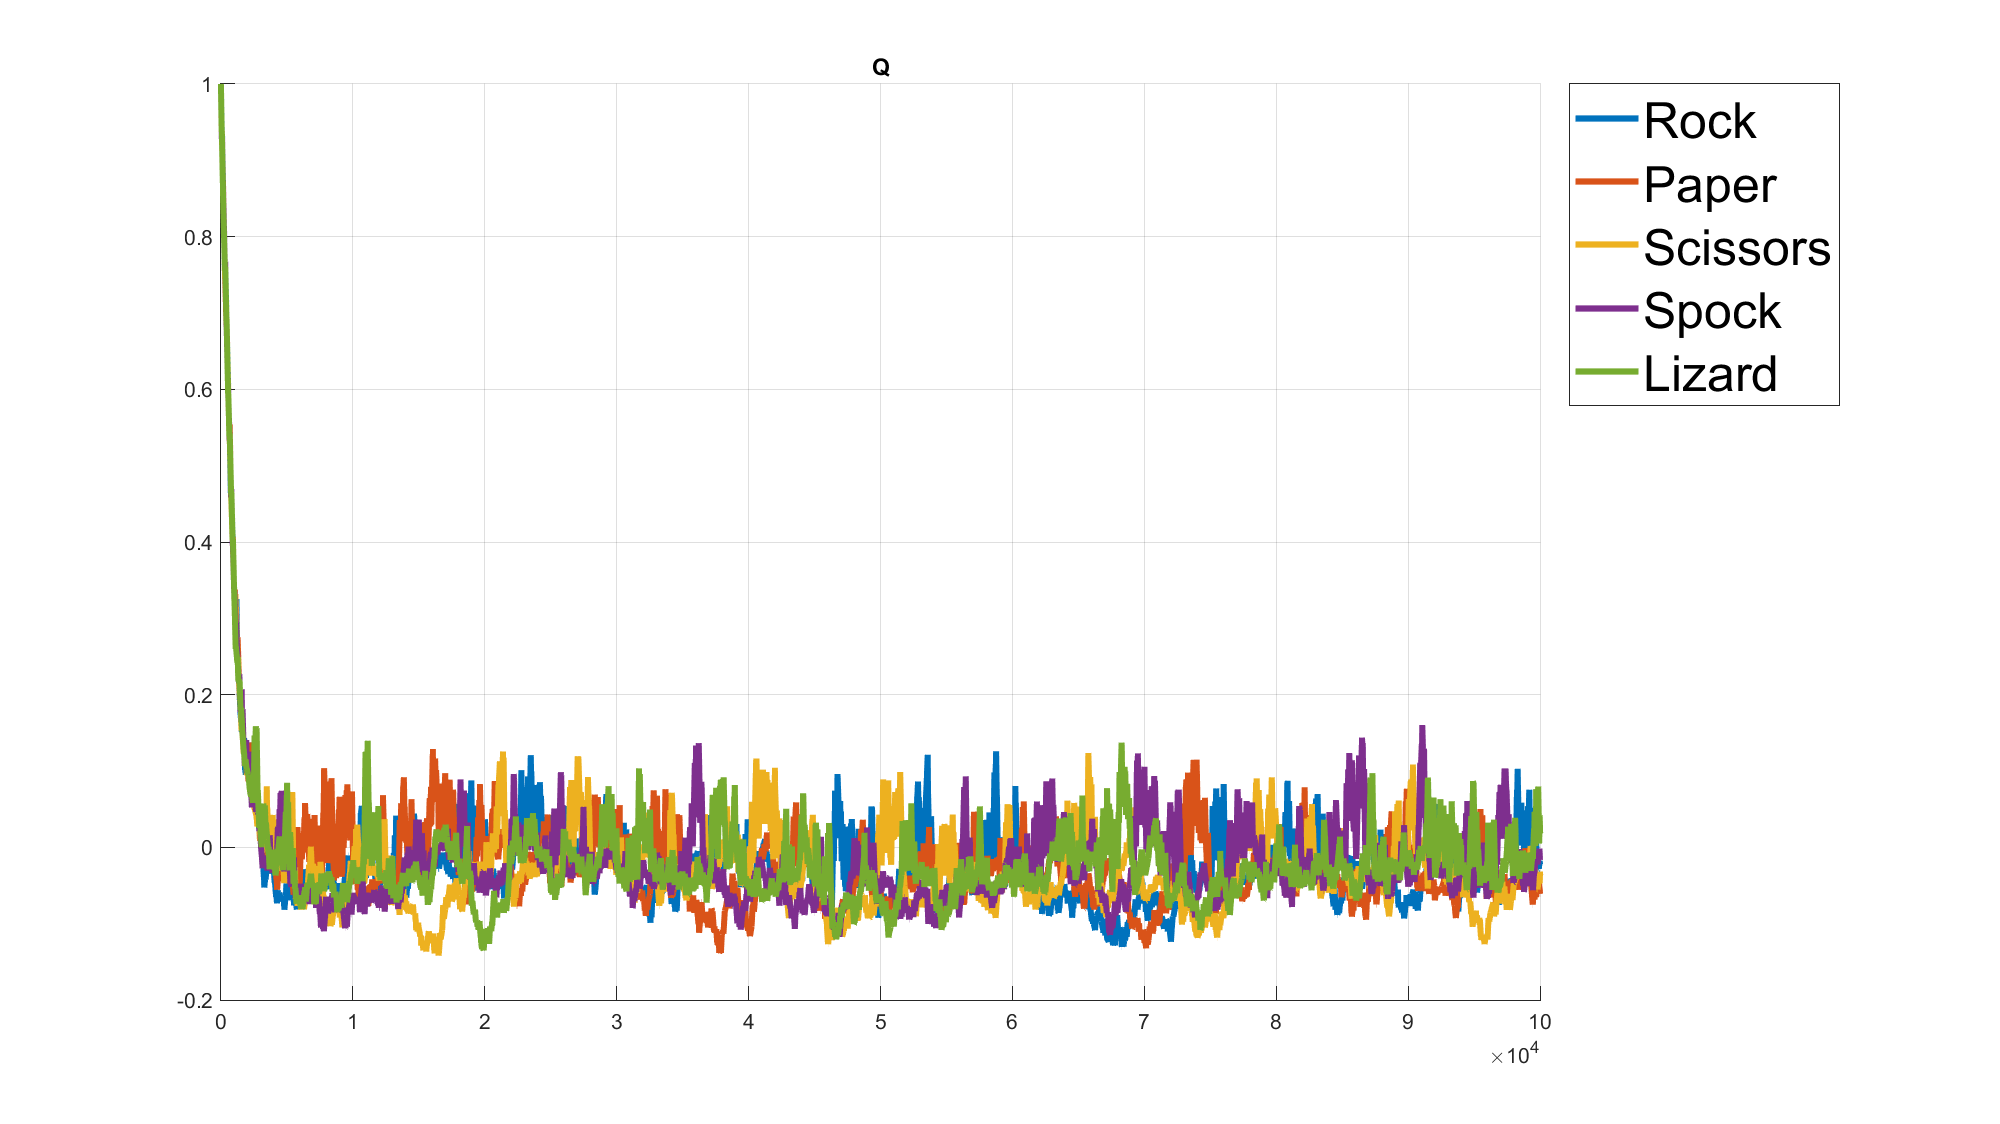
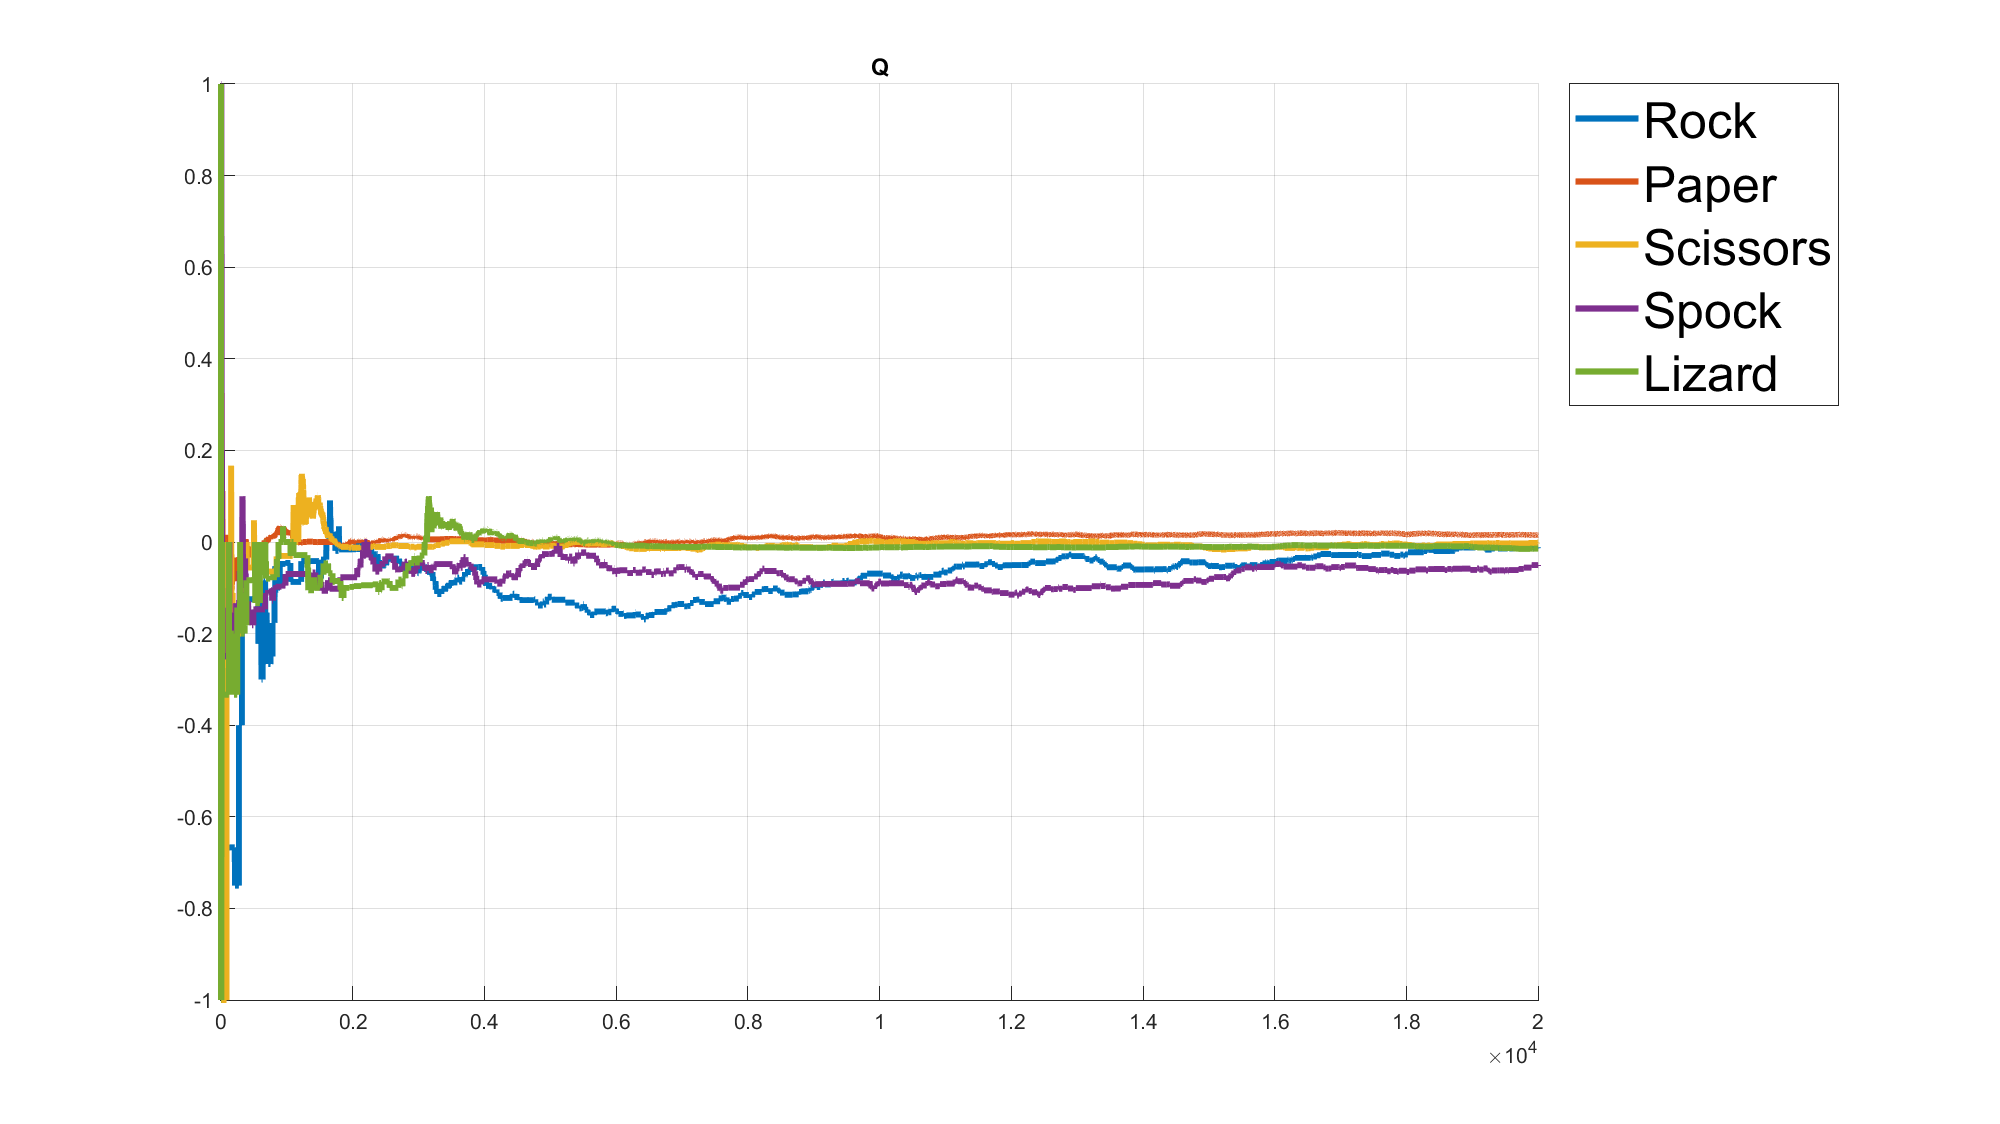
reverted to previus e-greedy configuration

Changed region(s): [[0.093, 0.1557, 0.775, 0.903], [0.744, 0.903, 0.775, 0.9653], [0.217, 0.903, 0.248, 0.9342]]

diff --git a/rel1/stationary_equiprobable_case/e_greedy_s_ep.m b/rel1/stationary_equiprobable_case/e_greedy_s_ep.m
@@ -5,9 +5,8 @@ clc
 rng(422) % set the random seed
 
 A = 5; % dimension action space
-epsilon = 3e-1; % probability we take a random action
-alpha = 5e-3;
-lengthEpisode = 100000; % number of actions to take
+epsilon = 1e-1; % probability we take a random action
+lengthEpisode = 20000; % number of actions to take
 
 Q = ones(A, 1); % estimate of the value of actions
 N = zeros(A, 1); % number of times we take each action
@@ -47,7 +46,7 @@ for i = 1:lengthEpisode
 
     % update N and Q
     N(agent_int) = N(agent_int) + 1;
-    Q(agent_int) = Q(agent_int) + alpha*(r - Q(agent_int));
+    Q(agent_int) = Q(agent_int) + 1/N(agent_int)*(r - Q(agent_int));
 
     % save the history
     historyQ(:,i) = Q;
